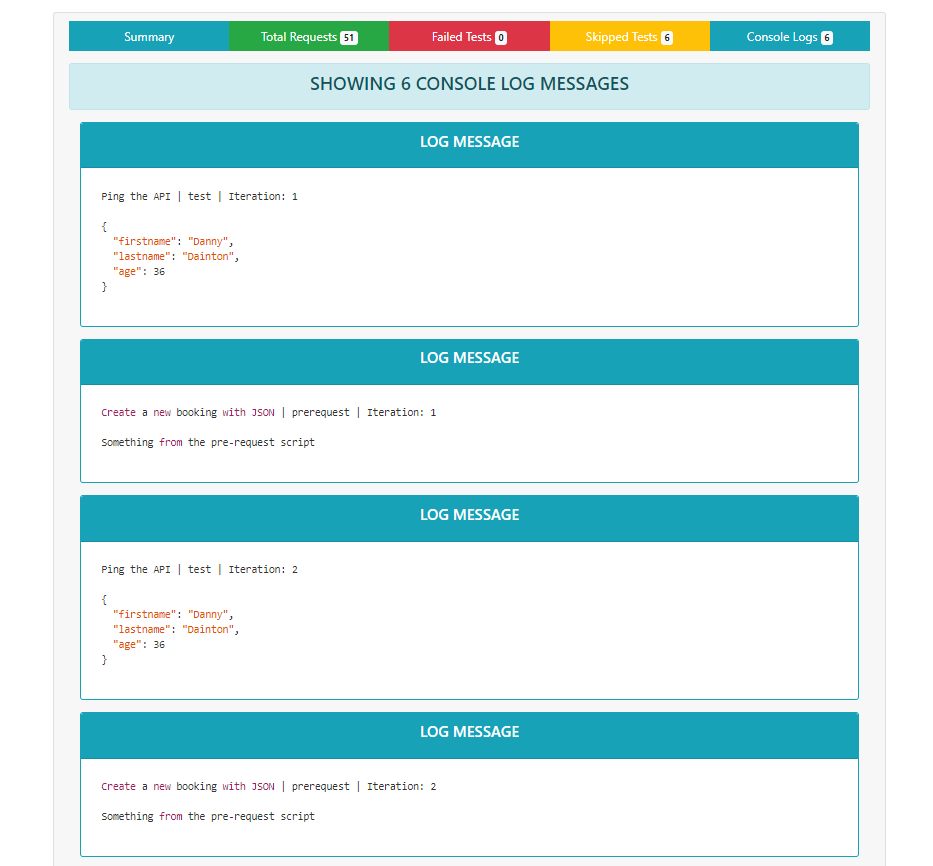
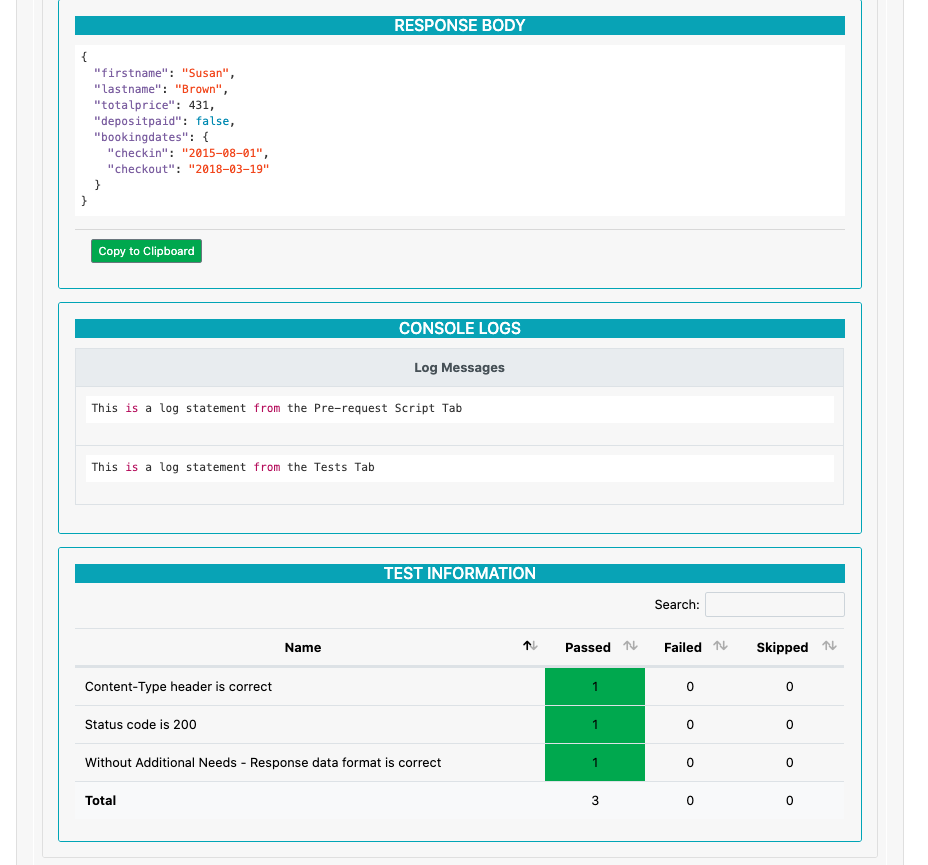
The `console.logs` are now part of the main request view and not a seperate section

diff --git a/lib/index.js b/lib/index.js
@@ -221,18 +221,23 @@ PostmanHTMLExtraReporter = function (newman, options, collectionRunOptions) {
     newman.on('console', function (err, o) {
         if (err) { return; }
 
-        if (options.logs) {
-            this.summary.consoleLogs = this.summary.consoleLogs || [];
+        // if (options.logs) {
+        //     this.summary.consoleLogs = this.summary.consoleLogs || [];
 
-            this.summary.consoleLogs.push({
-                cursor: {
-                    ref: o.cursor.ref,
-                    iteration: o.cursor.iteration,
-                    scriptId: o.cursor.scriptId
-                },
-                level: o.level,
-                messages: o.messages
-            });
+        //     this.summary.consoleLogs.push({
+        //         cursor: {
+        //             ref: o.cursor.ref,
+        //             iteration: o.cursor.iteration,
+        //             scriptId: o.cursor.scriptId
+        //         },
+        //         level: o.level,
+        //         messages: o.messages
+        //     });
+        // }
+        if (options.logs) {
+            this.summary.consoleLogs = this.summary.consoleLogs || {};
+            this.summary.consoleLogs[o.cursor.ref] = this.summary.consoleLogs[o.cursor.ref] || [];
+            this.summary.consoleLogs[o.cursor.ref].push(o);
         }
     });
 
@@ -243,6 +248,7 @@ PostmanHTMLExtraReporter = function (newman, options, collectionRunOptions) {
             aggregations = [],
             traversedRequests = {},
             aggregatedExecutions = {},
+            consoleLogs = this.summary.consoleLogs || {},
             executions = _.get(this, 'summary.run.executions'),
             assertions = _.transform(executions, function (result, currentExecution) {
                 var stream,
@@ -324,7 +330,8 @@ PostmanHTMLExtraReporter = function (newman, options, collectionRunOptions) {
                             time: util.prettyms(meanTime.sum / meanTime.count),
                             size: util.filesize(meanSize.sum / meanSize.count)
                         },
-                        cumulativeTests: netTestCounts[execution.cursor.ref]
+                        cumulativeTests: netTestCounts[execution.cursor.ref],
+                        consoleLogs: consoleLogs[execution.cursor.ref]
                     });
 
                 if (aggregatedExecutions[execution.cursor.ref]) { return; }
@@ -370,8 +377,7 @@ PostmanHTMLExtraReporter = function (newman, options, collectionRunOptions) {
                     responseTotal: util.filesize(this.summary.run.transfers.responseTotal),
                     responseAverage: util.prettyms(this.summary.run.timings.responseAverage),
                     duration: util.prettyms(this.summary.run.timings.completed - this.summary.run.timings.started),
-                    skippedTests: _.isObject(this.summary.skippedTests) ? this.summary.skippedTests : undefined,
-                    consoleLogs: _.isObject(this.summary.consoleLogs) ? this.summary.consoleLogs : undefined
+                    skippedTests: _.isObject(this.summary.skippedTests) ? this.summary.skippedTests : undefined
                 }
             })
         });

diff --git a/test/integration/library.test.js b/test/integration/library.test.js
@@ -1,3 +1,4 @@
+/* eslint-disable no-console */
 var fs = require('fs');
 
 describe('Newman and htmlextra run from a script', function () {
@@ -199,7 +200,7 @@ describe('Newman and htmlextra run from a script', function () {
         });
     });
 
-    it('should correctly produce the html report for a run with skipped Tests', function (done) {
+    it('should correctly generate the html report for a run with skipped Tests', function (done) {
         newman.run({
             collection: 'test/requests/simple-skipped-request.json',
             reporters: ['htmlextra'],
@@ -213,7 +214,7 @@ describe('Newman and htmlextra run from a script', function () {
         });
     });
 
-    it('should correctly produce the html report for a run with console logs', function (done) {
+    it('should correctly generate the html report for a run with console logs', function (done) {
         newman.run({
             collection: 'test/requests/simple-get-request-with-log-messages.json',
             reporters: ['htmlextra'],
@@ -221,8 +222,10 @@ describe('Newman and htmlextra run from a script', function () {
         // eslint-disable-next-line consistent-return
         }, function (err, summary) {
             if (err) { return done(err); }
+            let key = Object.keys(summary.consoleLogs);
+
             expect(err).to.be.null;
-            expect(summary.consoleLogs, 'should have 2 console log messages').to.have.lengthOf(2);
+            expect(summary.consoleLogs[key], 'should have 2 console log messages').to.have.lengthOf(2);
             fs.stat(outFile, done);
         });
     });

diff --git a/README.md b/README.md
@@ -21,7 +21,7 @@ A [Newman](https://github.com/postmanlabs/newman) HTML reporter that has been ex
 - Folder level descriptions with rendered Markdown syntax
 - Response Headers displayed for each of the requests
 - Iterations separated by tabs in the `Requests` view
-- First attempt to add the `console.log` statements, using the `--reporter-htmlextra-logs` CLI flag - These are currently separate from the parent requests but it's the first step in getting them on the report
+- The `console.log` statements from the Collections can be seen using the `--reporter-htmlextra-logs` CLI flag - These will be part of each of the requests that have them.
 - A `Dark Theme` dashboard template - This is an option from the CLI using the `--reporter-htmlextra-darkTheme` flag or in a script by setting the `darkTheme` property to `true`.
 - A `helper` to give more control over the main `title` shown on the report. Use the `--reporter-htmlextra-title` flag to add your own unique headline.
 - The default filename, if you do not supply the `export` location, is now includes the collection name in the filename rather that the reporter name.
@@ -32,13 +32,12 @@ A [Newman](https://github.com/postmanlabs/newman) HTML reporter that has been ex
 
 ## Interactive Report Examples
 
-To give you an idea of what the final reports will look like, I've added a few working examples here:
+To give you an idea of what the final reports will look like, I've added a couple of working examples here:
 
 - [All the Tests Passing](https://s3.eu-west-2.amazonaws.com/newman-htmlextra-reports/All_Passed.html)
 - [Passing and Failing Iterations](https://s3.eu-west-2.amazonaws.com/newman-htmlextra-reports/Passing_And_Failing.html)
-- [The Dark Theme version of the final report](https://s3.eu-west-2.amazonaws.com/newman-htmlextra-reports/Dark_Theme.html)
 
-These a _just_ a few of the reports that can be produced from the reporter. You will find more options available to help configure the final output, in the sections below.
+These a _just_ a couple of the reports that can be produced from the reporter. You will find more options available to help configure the final output, in the sections below.
 
 ## Install
 
@@ -299,7 +298,9 @@ newman.run({
 });
 ```
 
-## Default Dashboard
+## Reports
+
+### Light Theme
 
 ![Dashboard Template](./examples/Dashboard_Template.PNG)
 
@@ -307,13 +308,9 @@ newman.run({
 
 ![Request View](./examples/Request_View.PNG)
 
-![Failed View](./examples/Failed_View.PNG)
+### Dark Theme
 
-![Skipped View](./examples/Skipped_View.PNG)
-
-## Dark Theme Dashboard
-
-![Dark Theme Dashboard](./examples/Dark_Theme_Dashboard.PNG)
+![Dark Theme Dashboard Template](./examples/Dark_Theme_Dashboard_Template.PNG)
 
 ![Dark Theme Request View](./examples/Dark_Theme_Request_View.PNG)
 
@@ -321,17 +318,9 @@ newman.run({
 
 If you have multiple requests in your collections the report can become quite verbose, I've added a flag option to just create the report with only the requests that have `Failed` tests. This is very similar to the default report but the folders will already be expanded, if their are any failed tests.
 
-![Failed Requests View](./examples/Failed_Requests_View.PNG)
-
-Add the `darkTheme` flag to see this in the `dark` view.
-
-![Failed Requests Dark View](./examples/Failed_Requests_Dark_View.PNG)
-
 ### Console Logs
 
-This is the first attempt to expose any `console.log` statements that are really useful to have in your `Requests`. The event from Newman doesn't contain a lot of detail about the request that it was part of and this will involve, in it's current state a horrible hacky fix to map things together. In the meantime, the Postman `pm.info` function provides these for you and can just be added to the `console.log` statement, as workaround. Something like `${pm.info.requestName} | ${pm.info.eventName} | Iteration: ${pm.info.iteration + 1}` will log out the missing event information.
-
-If the collection contains Console Logs and you use the `--reporter-htmlextra-logs` flag, a new tab will appear, that will show all the details. This information is displayed in a similar way that you may have seen on the `Failed Tests` and `Skipped Tests`.
+The `console.log()` statements used in the Collections are shown in the main request view, these were previously separated out into its own section but these have been now brought together and part of the request that they relate too.
 
 ![Console Log](./examples/Console_Log_View.PNG)
 
@@ -339,7 +328,7 @@ If the collection contains Console Logs and you use the `--reporter-htmlextra-lo
 
 | **newman-reporter-htmlextra** | **newman** | **node** |
 |:------------------------:|:----------:|:--------:|
-|         >= v1.1.0          | >= v4.2.3  | >= v8.x  |
+|         >= v1.1.0          | >= v4.2.3  | >= v10.x  |
 
 ## Community Support
 
@@ -357,4 +346,4 @@ This software is licensed under Apache-2.0. Copyright Postdot Technologies, Inc.
 
 This work have been hugely inspired and copied several aspects of the great work done by [Martijn Vander Vlag](https://github.com/martijnvandervlag) to create the [newman-reporter-htmlfull](https://github.com/martijnvandervlag/newman-reporter-htmlfull) package. Check out that package too, this contains many of the same features.
 
-It was also brought together by reviewing some of the feature requests, for the official Postman HTML reporter.
+It was also brought together by reviewing the feature requests, from the official Postman HTML reporter.

diff --git a/CHANGELOG.md b/CHANGELOG.md
@@ -7,6 +7,14 @@ and this project adheres to [Semantic Versioning](http://semver.org/).
 
 -----------------------------------------------------------------------
 
+## [1.14.0] - 2020-04-21
+
+### Added
+
+- The `console.logs` are now part of the main request view and not a seperate section
+
+-----------------------------------------------------------------------
+
 ## [1.13.2] - 2020-04-08
 
 ### Added
